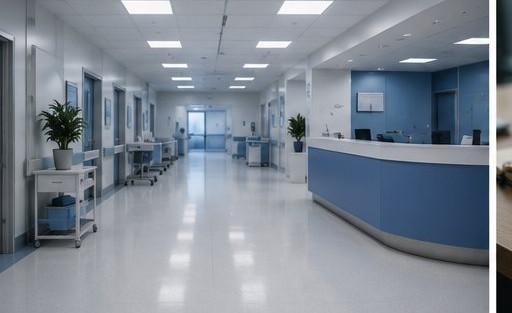
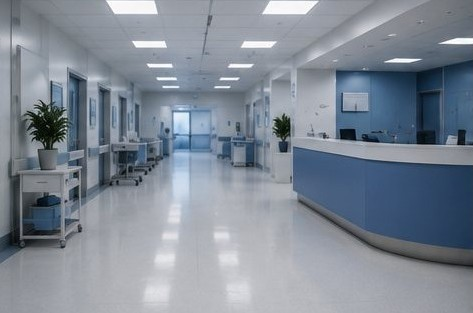
Add files via upload

diff --git a/src/App.jsx b/src/App.jsx
@@ -4,7 +4,7 @@ import 'leaflet/dist/leaflet.css'
 import { supabase, MODE } from './supabaseClient.js'
 import { facilities as FAC, assignments as ASG, visits as VIS, notifications as NOTIF, calls as CALLS, facilitiesFromCSV, orderRoute, googleMapsDirUrl, geocode, uploadEvidence, sendNotify, askAI, seedSampleData, clearAllData } from './data.js'
 
-const BUILD = 'field-2026-07-14k'
+const BUILD = 'field-2026-07-14l'
 
 /*
   REALMS FIELD — Stages 1 to 3 (single-file App.jsx + supabaseClient.js + data.js)
@@ -47,10 +47,10 @@ const GENESYS_URL = 'https://www.genesys-health.com/'
 
 const SERVICES = [
   { t: 'Strategy & advisory', d: 'Growth, market-entry and operational strategy for health providers, investors and government, grounded in evidence and delivered to implementation.', img: '/photos/g-boardroom.jpg' },
-  { t: 'Quality & accreditation', d: 'Readiness assessments and hands-on support that help facilities meet and hold the standards required for licensing and accreditation.', img: '/photos/g-corridor.jpg?v=2' },
+  { t: 'Quality & accreditation', d: 'Readiness assessments and hands-on support that help facilities meet and hold the standards required for licensing and accreditation.', img: '/photos/g-corridor.jpg?v=3' },
   { t: 'Facility Monitoring & Accreditation', d: 'As a licensed HEFAMAA monitoring operator, we carry out routine, evidence-based monitoring of health facilities across Lagos State.', img: '/photos/team.jpg', to: 'monitoring' },
   { t: 'Training & capacity building', d: 'Practical training and mentoring for facility teams, regulators and operators, building the knowledge that prevents non-compliance.', img: '/photos/meeting.jpg' },
-  { t: 'Health financing', d: 'Advisory on health financing, insurance design and sustainable funding models for providers, programmes and the public sector.', img: '/photos/g-handshake.jpg?v=2' },
+  { t: 'Health financing', d: 'Advisory on health financing, insurance design and sustainable funding models for providers, programmes and the public sector.', img: '/photos/g-handshake.jpg?v=3' },
   { t: 'Digital health & technology', d: 'Digital transformation for healthcare, powered by Genesys, our own Electronic Medical Records (EMR) platform, from patient records to real-time monitoring.', img: '/photos/g-health.jpg', href: GENESYS_URL }
 ]
 

diff --git a/START-HERE.md b/START-HERE.md
@@ -96,5 +96,5 @@ IF SOMETHING LOOKS WRONG
   no extra spaces, then Redeploy.
 - To show demo data for a walkthrough: on the Dashboard use "Load sample data".
   On the real site it starts empty on purpose so you add your own facilities.
-- The small code near the bottom of a database error box should read `field-2026-07-14k`.
+- The small code near the bottom of a database error box should read `field-2026-07-14l`.
   That confirms the newest version is live.
